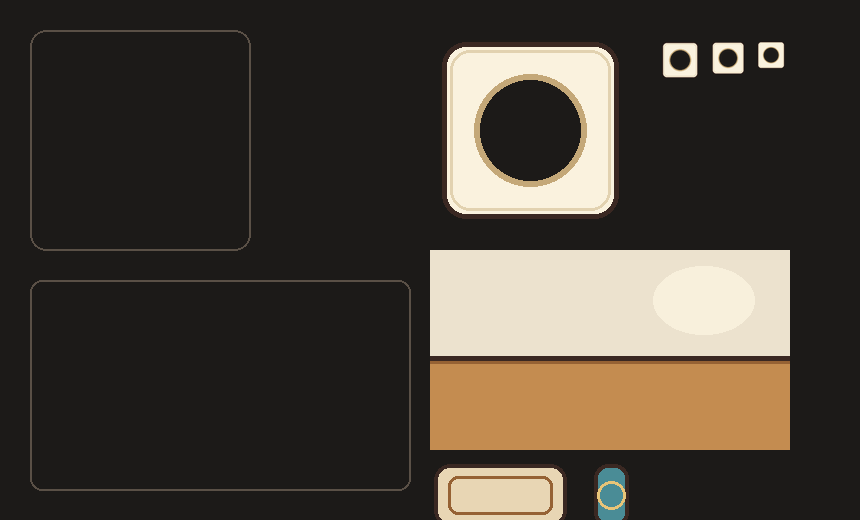
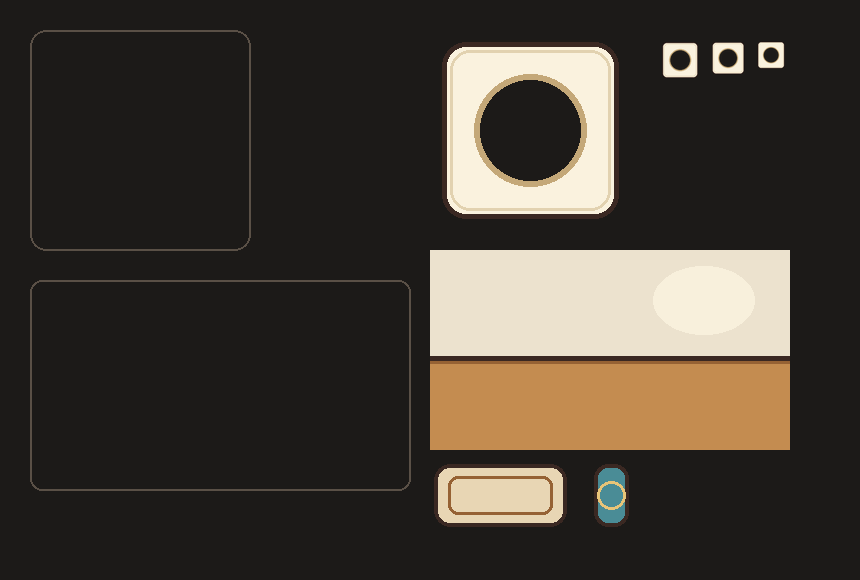
art: show the full training pad on the PB-15 review sheet
The sheet was 520 px tall and the pad ran past the bottom. The canvas
is now 580 px. The art files are unchanged, and PB-15 stays on hold.

diff --git a/incoming-art/unlock-trial/source/placeholders.py b/incoming-art/unlock-trial/source/placeholders.py
@@ -77,7 +77,8 @@ def sheet():
     room = backdrop(360, 200)
     mat = prop_mat(140, 70)
     pad = prop_pad(42, 70)
-    W, H = 860, 520
+    # Tall enough that the mat and pad (pasted at y=460, 70 px tall) sit fully inside, with a margin.
+    W, H = 860, 580
     im = Image.new('RGB', (W, H), (28, 26, 24))
     d = ImageDraw.Draw(im)
     # empty frames on the left stand for 'none'

diff --git a/incoming-art/unlock-trial/DELIVERY_NOTE.md b/incoming-art/unlock-trial/DELIVERY_NOTE.md
@@ -26,3 +26,5 @@ Open questions (not guessed as final):
 1. PB-13 has not set the card size, the room size, or the layout.
 2. Is the empty spot always a circle, because Seals use the round PB-07 medallions, or does a Strike or a kata power need a different spot?
 3. Should the Programmer tint only the ring, or the whole card, when the student's rank changes?
+
+The review-sheet crop is fixed so the training pad shows in full, and PB-15 is on hold.
